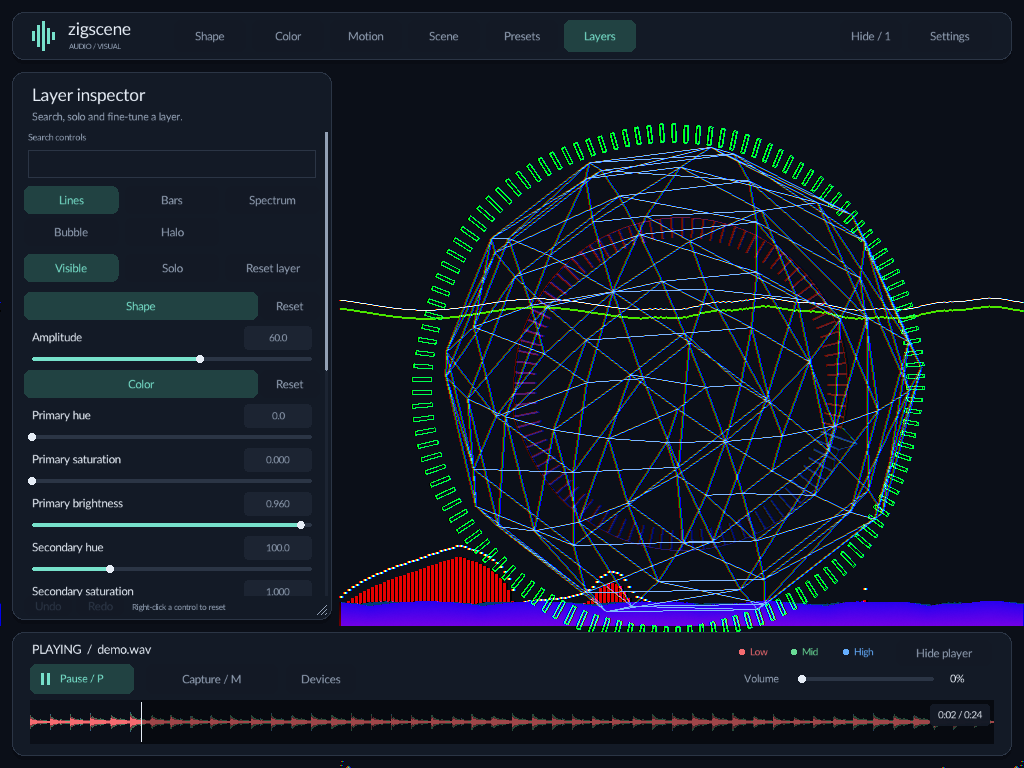
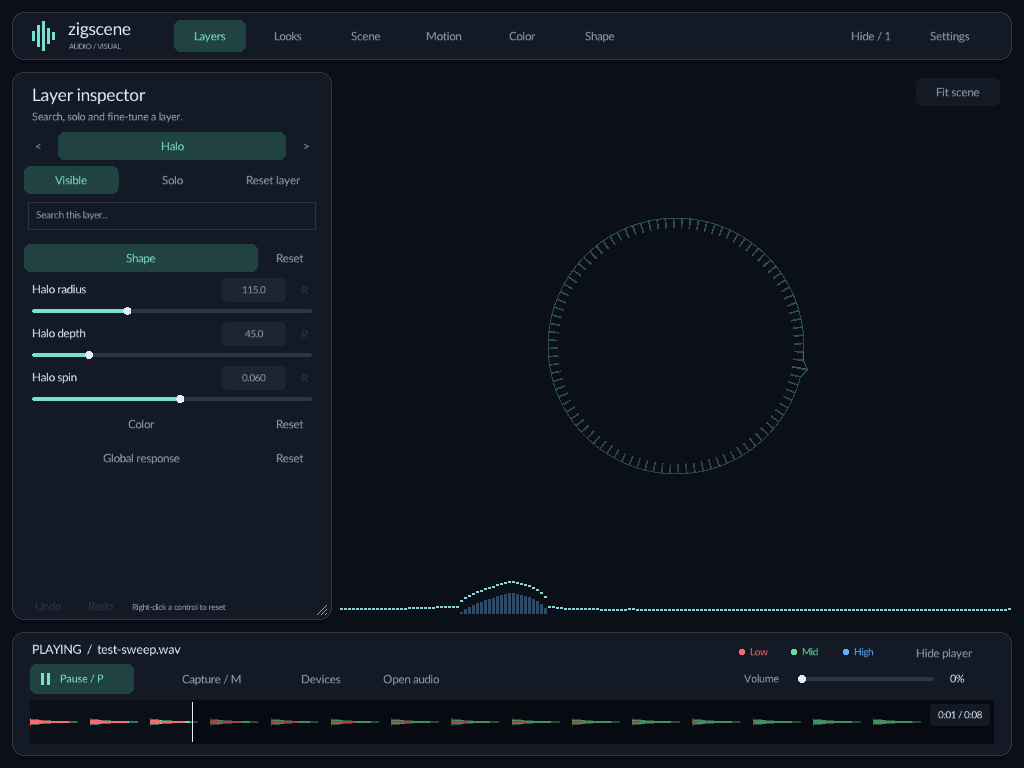
Document the studio workflow and refresh workspace screenshots

diff --git a/docs/usage.md b/docs/usage.md
@@ -12,7 +12,11 @@ For installation, start with [Getting started](../README.md#getting-started).
 
 ## Play a track
 
-Drop an MP3, WAV, or OGG file onto the window. Dropping a new file switches back
+Choose **Open audio** (or **Ctrl/Cmd+O**) to browse for an MP3, WAV, or OGG, or
+drop one onto the window. On minimal Linux desktops without a graphical
+chooser, Open audio provides a full-path entry instead.
+
+Opening or dropping a new file switches back
 from live capture to file playback. If you drop several audio files at once,
 only the last one loads. FLAC support is disabled in the bundled raylib build.
 
@@ -20,7 +24,8 @@ The player at the bottom of the window provides:
 
 | Control | Action |
 | --- | --- |
-| **Play / Pause** or **P** | Pause or resume the loaded track |
+| **Play / Pause**, **Space**, or **P** | Pause or resume the loaded track |
+| **Open audio** | Choose another track |
 | **Volume** | Change the output volume |
 | Waveform | Drag to seek; hover to preview a time |
 | **Devices** | Choose the live-capture source |
@@ -55,6 +60,9 @@ to appear, especially after switching tracks. For decoding and caching details,
 see [Audio and the seek waveform](../ARCHITECTURE.md#audio-and-the-seek-waveform).
 
 ## Capture live audio
+
+The welcome screen's **Capture system audio** starts the automatic system source.
+If it cannot start, the device panel opens so you can choose a source.
 
 1. Click **Devices** beside the capture button.
 2. Choose **System audio** or **Input**, then select a device by name.
@@ -101,7 +109,7 @@ Command-line selections also appear in the **Devices** panel.
 | **Motion / 4** | Volume, waveform smoothing/strength, energy gain, compression, rise/fall times, and beat decay |
 | **Scene / 5** | Layer visibility, Lua examples, and script parameters |
 | **Settings / 6** | FPS limit, opacity, volume, UI size, FPS display, and always-on-top |
-| **Presets / 7** | Save, load, and duplicate named looks |
+| **Looks / 7** | Choose a starter look; save, load, and duplicate named looks |
 | **Layers / 8** | Search controls, solo a layer, and reset groups |
 
 Hover over a layer's settings to highlight it in the scene. The highlight stays
@@ -111,15 +119,19 @@ try a custom visualizer.
 
 Beats and sharp increases in audio level react on the first analyzed frame.
 **Swell rise** in Motion controls gradual increases; **Fall time** controls the
-decay. Waveform smoothing preserves the leading edge of hits. Holding **Space**
-still applies deliberately heavier waveform smoothing.
+decay. Waveform smoothing preserves the leading edge of hits. Holding
+**Shift+Space** applies deliberately heavier waveform smoothing.
 
 ### Explore and save a look
 
-Open **Presets / 7**, enter a name, and choose **Save / replace**. Click a saved
-name to restore its visual settings, Lua scene reference, and parameters. Select a
-preset and choose **Duplicate** to copy it; a new name creates a separately named
-copy. Saving with an existing name replaces that look. The library holds 24 looks.
+Open **Looks / 7** and try **Calm**, **Pulse**, or **Sculpture**. Cards show a small
+palette-and-layer preview; Lua cards use a generic scene symbol.
+
+Enter a name and choose **Save as** to create a saved look. Existing names are
+protected: select that look and choose **Replace** to overwrite it. Click a saved
+card to restore its visual settings, Lua scene reference, and parameters.
+**Duplicate** makes a separate copy. The library holds 24 saved looks in addition
+to the three starters.
 Native builds save immediately to `presets.json` beside `settings.conf`; browser
 presets last for the session. External Lua files are referenced by absolute path,
 so keep those files available. A missing or invalid scene keeps the current look.
@@ -127,13 +139,16 @@ Window, interface, volume, and capture-device settings are excluded.
 
 Use **Undo / Redo** at the panel footer or the keyboard shortcuts to explore visual
 changes. History holds up to 63 edits, groups a completed slider drag into one
-edit, and restarts when a scene or preset loads. A teal dot marks controls changed
-from their defaults. Right-click a control or Lua parameter to reset it; section
+edit, and includes switching starter or saved looks, including their Lua scenes
+and parameters. Directly loading or reloading a Lua file starts a new history.
+A teal dot marks controls changed from their defaults. Click a control's **R**
+button or right-click it to reset it; section
 **Reset** buttons restore a group. Lua-owned host controls display **Lua** and
 remain locked; adjust the scene's exposed parameters instead.
 
-**Layers / 8** collects each layer's controls into collapsible Shape, Color, and
-Global response groups. Search by label or setting path. **Solo** temporarily shows
+**Layers / 8** opens first and collects each layer's controls into collapsible
+Shape, Color, and Global response groups. Use the arrows or click the layer name
+to choose a layer. Search by label or setting path. **Solo** temporarily shows
 only the selected enabled built-in layer, without changing saved visibility.
 Click a Scene card's body to open its inspector. Solo clears when the scene changes.
 
@@ -143,25 +158,33 @@ save alongside presets on native builds. Spectrum tips and body have separate co
 
 ### Panel and UI size
 
-Scroll with the wheel or scrollbar. Tabs remember their scroll position within
-the session. Opening a side panel slides the scene into the area to its right;
-hiding it returns the scene to the full window width.
+Scroll with the wheel, scrollbar, or **Page Up / Page Down**. Tabs remember their
+scroll position within the session. The scene fits between the header, panel,
+and player. **Fit scene** restores the built-in camera after zooming or rotating;
+Lua scenes manage their own cameras. Opening or hiding the panel slides the scene.
 
 Choose 75%, 100%, 125%, or 150% UI size in **Settings**. Text, controls, and mouse
 targets scale together and fit smaller windows. Resize a panel by dragging its
 right edge, bottom edge, or bottom-right grip. **Reset UI size and panel** restores
 the default layout.
 
+Small windows use a narrower inspector and a shorter player automatically.
+**Tab / Shift+Tab** moves focus between visible buttons, text fields, and numeric
+controls. **Enter / Space** activates a focused button. On a numeric control,
+use the arrow keys to adjust, **Shift** for finer changes, **Home / End** for the
+range limits, or **Enter** to type a value. Hover for labels and control hints.
+
 ### Window and background
 
 - **Window opacity** changes the opacity of the whole native window.
-- **Background opacity** changes only the scene background. Lower it from the
-  default opaque navy to reveal the desktop. It is also available in Shape.
+- **Background opacity** changes only the scene background. Normal launches start
+  at `1` (fully opaque), even after a translucent session. Lower it to reveal the
+  desktop. It is also available in Shape.
 - **Always on top** keeps the native window above other windows and defaults to
-  on. Turn it off to let other windows cover zigscene.
+  off. Turn it on when you want zigscene to stay above other windows.
 - **FPS limit** sets the frame cap; `0` means uncapped, the default.
 
-The upper-right counter shows FPS and frame time. Click it or press **D** for
+Enable **Show FPS** in Settings to display FPS and frame time. Click it or press **D** for
 CPU diagnostics. See [Profiling and diagnostics](development.md#profiling-and-diagnostics)
 for what those timings measure.
 
@@ -173,25 +196,32 @@ for what those timings measure.
 | **Ctrl/Cmd+Z** | Undo a visual edit |
 | **Ctrl/Cmd+Shift+Z** or **Ctrl/Cmd+Y** | Redo a visual edit |
 | Right-click a control | Restore its default value |
-| **P** | Play/pause a loaded file |
+| **Space / P** | Play/pause a loaded file (Space activates a focused control) |
+| **Ctrl/Cmd+O** | Open an audio file |
+| **Tab / Shift+Tab** | Move keyboard focus forward/backward |
+| **Enter / Space** | Activate the focused button |
+| **Page Up / Page Down** | Scroll the side panel |
 | **M** | Start/stop the selected capture source |
-| Hold **Space** | Temporarily apply heavier waveform smoothing |
+| Hold **Shift+Space** | Temporarily apply heavier waveform smoothing |
 | **F5** | Reload the selected Lua scene |
 | **F** | Toggle borderless window mode |
 | **C** | Switch the built-in camera between perspective and orthographic |
-| **Left / Right** | Rotate the built-in 3D scene |
+| **Left / Right** | Rotate the built-in 3D scene when no UI control has keyboard focus |
 | Vertical wheel over the scene | Move the camera closer/farther (stops short of the scene center) |
 | Horizontal wheel over the scene | Rotate the built-in 3D scene |
 | Wheel over a panel | Scroll its controls |
 | **D** or click the FPS counter | Toggle diagnostics |
 
-Tab, playback, camera, and smoothing shortcuts are ignored while editing a
-numeric value or text field. Holding Space does not change the saved smoothing setting.
+Playback, camera, and smoothing shortcuts are ignored while editing a numeric
+value or text field. Tab finishes text entry and advances focus.
+Holding Shift+Space does not change the saved smoothing setting.
 
 ## Saved settings
 
 Native host settings save when the app closes: volume, layer controls, colors,
 panel sizes, player visibility, UI scale, FPS limit, window opacity, and always-on-top.
+Normal launches reset background opacity to `1`; desktop-pet mode keeps its
+transparent presentation.
 
 | Platform | Settings file |
 | --- | --- |

diff --git a/ARCHITECTURE.md b/ARCHITECTURE.md
@@ -96,7 +96,7 @@ native buffer configuration with a single buffer while preserving scene detail.
 | Area | Responsibility |
 | --- | --- |
 | [`src/graphics.zig`](src/graphics.zig) | Built-in visualizer exports |
-| [`src/graphics/Viewport.zig`](src/graphics/Viewport.zig) | Scene area right of the side panel: 2D offset, off-axis 3D projection, slide easing |
+| [`src/graphics/Viewport.zig`](src/graphics/Viewport.zig) | Available canvas: 2D offset, fitted 3D projection, slide easing |
 | [`src/graphics/Motion.zig`](src/graphics/Motion.zig) | Frame-rate independent energy/beat envelope |
 | [`src/shader/shader.zig`](src/shader/shader.zig) | Scene texture and embedded GLSL shader lifetime |
 | [`src/gui.zig`](src/gui.zig) | Tabs, panel scrolling/resizing, controls, player and seeking |
@@ -144,7 +144,7 @@ loud passages. Seeking clears queued PCM and analysis history. If callbacks stop
 waveform, FFT, RMS and beat history expire together after 120 ms.
 Sharp RMS increases bypass waveform and motion attack smoothing on their first
 analyzed frame, including before beat history has warmed up. Near-silent noise
-does not open this attack path; holding Space keeps the requested heavy waveform
+does not open this attack path; holding Shift+Space keeps the requested heavy waveform
 smoothing. Motion applies attack/release smoothing to gradual swells/decays,
 gain/compression and an exponential beat pulse. The halo uses a 12 ms attack and
 90 ms release instead of delaying rises with its decay filter.
@@ -252,14 +252,14 @@ exposed to Lua in the current interface.
 
 ### Scene viewport
 
-All scene drawing, built-in and Lua, happens in a viewport right of the open
-side panel ([`Viewport.zig`](src/graphics/Viewport.zig)), eased toward
-`gui.sceneLeft()` so opening or hiding the panel slides the scene. 2D layers
-draw in viewport-local coordinates under a pushed translation; full-width layers
-span the viewport's width. 3D passes leave that translation (rlgl would apply it
-to 3D vertices too) and use raylib's frustum slid off-axis, which moves the image
-to the viewport's center at every depth without changing perspective or scale.
-Lua sees the viewport size as `ctx.width`/`ctx.height`.
+All scene drawing, built-in and Lua, happens inside the available canvas
+([`Viewport.zig`](src/graphics/Viewport.zig)), excluding the header, side panel,
+and player. The left inset eases toward `gui.sceneLeft()` so opening or hiding
+the panel slides the scene. 2D layers use a pushed translation and a shared
+scissor rectangle. 3D passes leave that translation and use a matching GL
+viewport and centered projection; narrow canvases widen the vertical field of
+view to preserve the horizontal framing. Lua receives the canvas size and
+local mouse coordinates. Compact desktop-pet mode retains the full window.
 
 The scene texture then passes through the existing shader. UI draws afterward,
 so replacing a scene does not replace playback or settings controls. Source-over
@@ -307,7 +307,8 @@ unreadable files do not prevent startup. Saving replaces the file through a
 temporary file after Lua teardown restores its owned settings, so script
 overrides do not become user preferences. Browser settings remain session-local.
 Changing a slider does not rewrite a Lua script. FPS 0 means uncapped.
-**Always on top** defaults to on; changing it applies/clears raylib's native
+Normal launches reset background opacity to `1` after preferences load.
+**Always on top** defaults to off; changing it applies/clears raylib's native
 topmost flag without recreating the window.
 Browser builds disable that control.
 
@@ -324,6 +325,12 @@ in [`build.zig.zon`](build.zig.zon). [`deps/build/lua.zig`](deps/build/lua.zig)
 compiles only the Lua core and exposed libraries plus the C bridge; no system Lua
 or interpreter executable is needed. Lua's license is bundled in
 [`docs/licenses/Lua.txt`](docs/licenses/Lua.txt).
+
+Native audio selection links the vendored tinyfiledialogs library, with source
+version, hashes, and license in [`deps/tinyfiledialogs/SOURCE.txt`](deps/tinyfiledialogs/SOURCE.txt).
+It uses a graphical system chooser, falling back to a path-entry dialog when no
+chooser is available. The browser uses an asynchronous HTML file input and adopts
+the selected virtual file on the next frame.
 
 Development builds retain Zig Debug checks while compiling raylib and Lua with
 ReleaseSafe optimization. This avoids per-vertex/backend work and interpreter

diff --git a/README.md b/README.md
@@ -9,12 +9,15 @@ audio, customize the built-in layers, or write a Lua scene.
 ## Getting started
 
 1. [Download a release](#download-a-release) or [build from source](#build-from-source).
-2. Drop an MP3, WAV, or OGG file onto the window.
-3. Use the tabs to change the visuals, or open **Scene / 5** to try a Lua example.
-4. Save a look in **Presets / 7**, or use **Layers / 8** to search and solo layers.
+2. Choose **Open audio** or **Capture system audio**. You can also
+   drop an MP3, WAV, or OGG onto the window.
+3. Choose **Calm**, **Pulse**, or **Sculpture** in **Looks / 7**, then tune a layer
+   in **Layers / 8**. **Scene / 5** has programmable Lua examples.
+4. Choose **Save as** to keep a look. **Undo / Redo** includes switching looks.
 
-The compact editor includes undo/redo, control and group resets, and full HSV
-colors with saved swatches. See [visual editing](docs/usage.md#explore-and-save-a-look).
+The editor adapts to small windows, keeps the scene clear of the controls, and
+includes keyboard focus, visible resets, and full HSV colors with saved swatches.
+See [visual editing](docs/usage.md#explore-and-save-a-look).
 
 For live audio, click **Devices** in the player, choose a source, then click
 **Capture / M**. See the [capture guide](docs/usage.md#capture-live-audio) for
@@ -56,8 +59,9 @@ optimized builds, tests, and release builds.
 
 ### Web build
 
-The browser target supports dropped audio files. Lua scenes, live capture, and
-native window controls are unavailable there; browser preferences are not saved.
+The browser target supports **Open audio** and dropped files.
+Lua scenes, live capture, and native window controls are unavailable there;
+browser preferences are not saved.
 See [building for the web](docs/development.md#web-build) for Emscripten commands
 and output files.
 
@@ -106,16 +110,18 @@ and **F5** reloads manually. Start with the
 
 ## Screenshots
 
-The native workspace includes shape controls, full HSV color editing, a searchable
+The native workspace includes starter looks, full HSV color editing, a searchable
 layer inspector, and live Lua scene parameters. Click an image for a closer look.
 
-| Shape & texture | HSV color editor |
+| Starter looks | HSV color editor |
 | --- | --- |
-| [![Built-in audio-reactive scene with shape controls and the waveform player](docs/assets/studio.png)](docs/assets/studio.png) | [![HSV color editor with hue, saturation, brightness, and saved swatches](docs/assets/color-editor.png)](docs/assets/color-editor.png) |
+| [![Calm starter look, preset previews, and the waveform player](docs/assets/studio.png)](docs/assets/studio.png) | [![HSV color editor with hue, saturation, brightness, and saved swatches](docs/assets/color-editor.png)](docs/assets/color-editor.png) |
 
 | Layer inspector | Lua scene studio |
 | --- | --- |
 | [![Layer inspector with search, visibility, solo, and grouped shape and color controls](docs/assets/layer-inspector.png)](docs/assets/layer-inspector.png) | [![Orbital sculpture Lua scene with editable parameters and the waveform player](docs/assets/lua-sculpture.png)](docs/assets/lua-sculpture.png) |
+
+[![Compact layer editor at 640 by 480](docs/assets/compact-editor.png)](docs/assets/compact-editor.png)
 
 <details>
 <summary>More visualizations</summary>
@@ -141,3 +147,8 @@ SIL Open Font License
 
 Lua 5.4.9 is embedded under the MIT license
 ([Lua copyright and license](docs/licenses/Lua.txt)).
+
+### Audio chooser
+
+Native file selection uses tinyfiledialogs under the Zlib license
+([source and license](deps/tinyfiledialogs/SOURCE.txt)).

diff --git a/docs/development.md b/docs/development.md
@@ -95,7 +95,9 @@ For visual or input changes, also run the app and check the affected controls,
 window sizes, and built-in/Lua scenes. CPU tests cannot verify GPU output. For a repeatable rendering pass, run
 `zig build run -Dui-smoke=true`. It renders all editor tabs at representative window
 sizes and UI scales into `.tmp/ui-review` without reading or writing preferences.
-This is a visual inspection aid, not an interaction test.
+It also checks opaque startup, the topmost default, file/Space playback, keyboard focus, starter-look
+switching, and undo through raylib input events. Inspect the images for clipping
+or rendering problems, including the built-in and Lua 3D scenes.
 `zig build run -Dpet-smoke=true` checks desktop-pet transitions with raylib input
 events: right-click control resets, opening without an accidental reset, text
 editing cleanup, render-texture resizing, session overrides, and hard reset.
@@ -122,8 +124,8 @@ zig build web-run -Dtarget=wasm32-emscripten -Doptimize=ReleaseSafe \
 The deployable bundle is written to `zig-out/web`. Serve it over HTTP rather than
 opening the HTML file directly.
 
-After building, check browser startup, preset save/replace/duplicate, settings
-reset, dropped audio, and recovery from a rejected post shader:
+After building, check browser startup, preset save/replace/duplicate,
+settings reset, the file chooser, dropped audio, and recovery from a rejected post shader:
 
 ```sh
 npm ci --prefix tests/web

diff --git a/docs/scripting.md b/docs/scripting.md
@@ -132,8 +132,9 @@ app elapsed time and does not reset on reload or stop when audio is paused. Use
 
 ### Coordinates and time
 
-The viewport is the window area to the right of the open side panel, or the whole
-window when the panel is hidden. Its width eases between the two states.
+The viewport is the canvas between the side panel, header, and player. Hiding
+the panel or player gives the scene more room. Its left edge eases as the panel
+opens or closes; the other edges follow the current layout.
 Coordinates start at its top-left corner; 3D cameras center on the viewport.
 Drawing pixels are independent of UI scale.
 
@@ -285,7 +286,7 @@ Jump to [window and interface](#window-and-interface), [audio and motion](#audio
 | --- | --- |
 | `window.fps_limit` | 0…360; 0 is uncapped |
 | `window.opacity` | 0.15…1, native window opacity |
-| `window.always_on_top` | Boolean, native only; default true |
+| `window.always_on_top` | Boolean, native only; default false |
 | `interface.scale_percent` | 75…150; also fits the available window |
 | `interface.panel_width` | 240…2000 logical pixels; clamped to window |
 | `interface.panel_height` | 0…2000; 0 follows available height |
